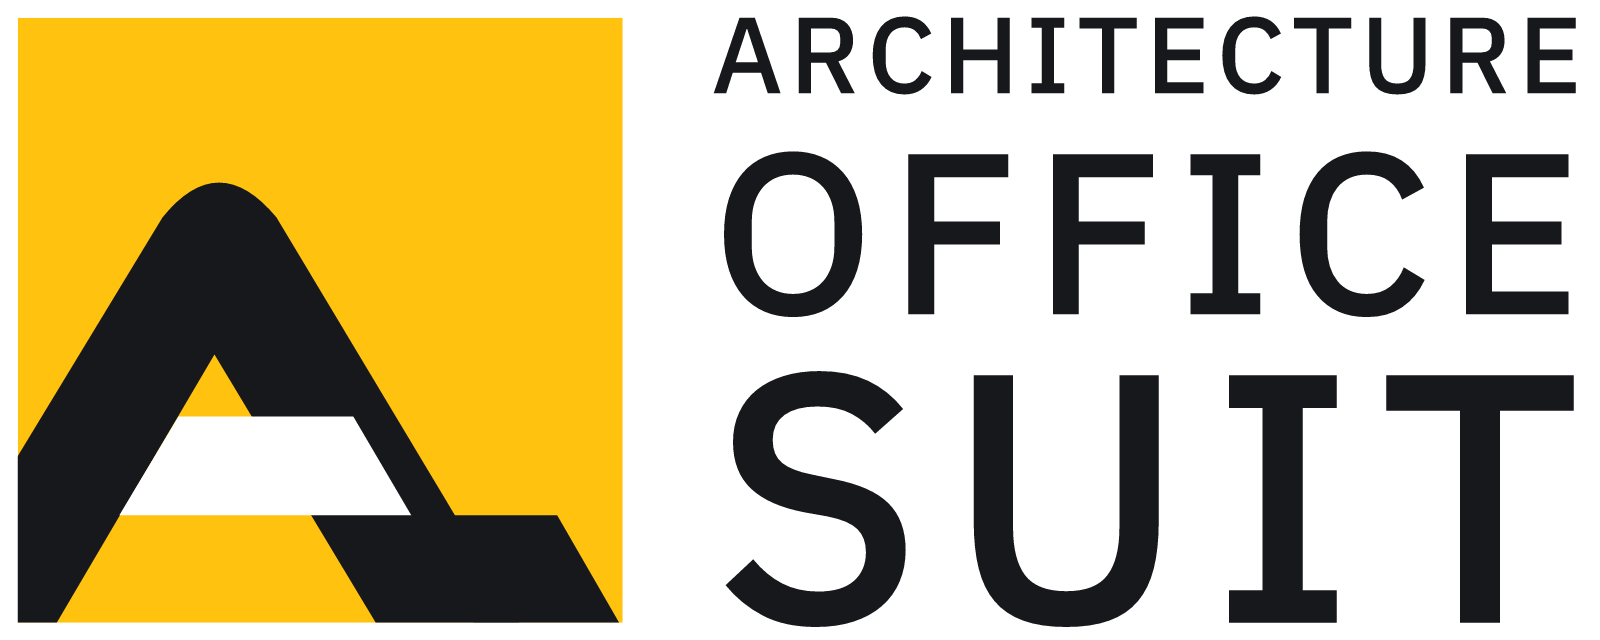
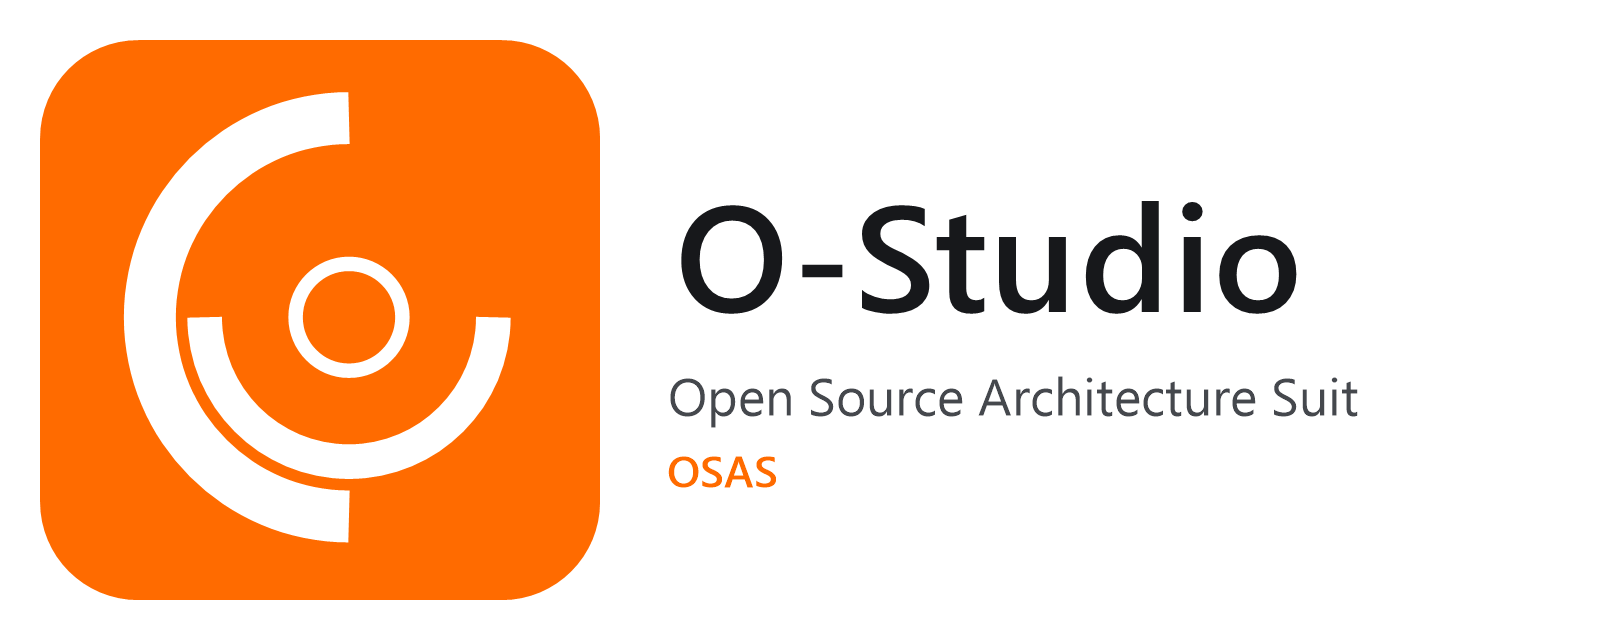
Rebrand to O-Studio: name, orange accent and the OSAS mark
The aos portal session name, the AOSENC1 file marker and the repository name are unchanged, because files and servers already use them.

diff --git a/native/Adms.Desktop/MainWindow.xaml b/native/Adms.Desktop/MainWindow.xaml
@@ -3,7 +3,7 @@
     x:Class="Adms.Desktop.MainWindow"
     xmlns="http://schemas.microsoft.com/winfx/2006/xaml/presentation"
     xmlns:x="http://schemas.microsoft.com/winfx/2006/xaml"
-    Title="Architecture Office Suit">
+    Title="O-Studio">
     <Grid x:Name="Root" Language="en-IN" Background="{ThemeResource ApplicationPageBackgroundThemeBrush}">
         <Grid.KeyboardAccelerators>
             <KeyboardAccelerator Key="Escape" Invoked="DismissNotice"/>
@@ -70,7 +70,7 @@
             <ScrollViewer x:Name="WelcomePanel" Padding="32">
                 <Border Style="{StaticResource SetupCardStyle}" MaxWidth="560">
                     <StackPanel Spacing="12">
-                        <Image x:Name="WelcomeLogo" MaxWidth="460" HorizontalAlignment="Left" Stretch="Uniform" AutomationProperties.Name="Architecture Office Suit"/>
+                        <Image x:Name="WelcomeLogo" MaxWidth="460" HorizontalAlignment="Left" Stretch="Uniform" AutomationProperties.Name="O-Studio"/>
                         <TextBlock Text="Create a company file or open an existing one." TextWrapping="WrapWholeWords" Style="{ThemeResource BodyStyle}"/>
                         <TextBlock Text="Developed by Human Centric Works" Style="{ThemeResource CaptionStyle}"/>
                         <StackPanel Orientation="Horizontal" Spacing="8">
@@ -112,7 +112,7 @@
             <ScrollViewer x:Name="LoginPanel" Visibility="Collapsed" Padding="32">
                 <Border Style="{StaticResource SetupCardStyle}">
                     <StackPanel Spacing="12">
-                        <Image x:Name="LoginLogo" Width="56" Height="56" HorizontalAlignment="Left" Stretch="Uniform" AutomationProperties.Name="Architecture Office Suit"/>
+                        <Image x:Name="LoginLogo" Width="56" Height="56" HorizontalAlignment="Left" Stretch="Uniform" AutomationProperties.Name="O-Studio"/>
                         <TextBlock x:Name="LoginHeading" Style="{ThemeResource PageTitleStyle}" TextWrapping="WrapWholeWords"/>
                         <TextBlock Text="Enter your username and password." Style="{ThemeResource BodyStyle}" TextWrapping="WrapWholeWords"/>
                         <TextBox x:Name="UsernameBox" Header="Username"/>
@@ -129,7 +129,7 @@
             <ScrollViewer x:Name="SetupPanel" Visibility="Collapsed" Padding="32">
                 <Border Style="{StaticResource SetupCardStyle}">
                     <StackPanel Spacing="12">
-                        <Image x:Name="SetupLogo" Width="56" Height="56" HorizontalAlignment="Left" Stretch="Uniform" AutomationProperties.Name="Architecture Office Suit"/>
+                        <Image x:Name="SetupLogo" Width="56" Height="56" HorizontalAlignment="Left" Stretch="Uniform" AutomationProperties.Name="O-Studio"/>
                         <TextBlock x:Name="SetupHeading" Style="{ThemeResource PageTitleStyle}" Text="Set up the admin password" TextWrapping="WrapWholeWords"/>
                         <TextBlock Text="This company is opened with the admin password. The recovery code is shown once." TextWrapping="WrapWholeWords" Style="{ThemeResource BodyStyle}"/>
                         <TextBox x:Name="SetupUser" Header="Username" Visibility="Collapsed"/>
@@ -146,7 +146,7 @@
             <ScrollViewer x:Name="RecoverPanel" Visibility="Collapsed" Padding="32">
                 <Border Style="{StaticResource SetupCardStyle}">
                     <StackPanel Spacing="12">
-                        <Image x:Name="RecoverLogo" Width="56" Height="56" HorizontalAlignment="Left" Stretch="Uniform" AutomationProperties.Name="Architecture Office Suit"/>
+                        <Image x:Name="RecoverLogo" Width="56" Height="56" HorizontalAlignment="Left" Stretch="Uniform" AutomationProperties.Name="O-Studio"/>
                         <TextBlock Style="{ThemeResource PageTitleStyle}" Text="Reset password" TextWrapping="WrapWholeWords"/>
                         <TextBlock Text="Enter the username and the recovery code. The old recovery code stops working. A new one is shown once." TextWrapping="WrapWholeWords" Style="{ThemeResource BodyStyle}"/>
                         <TextBox x:Name="RecoverUser" Header="Username"/>
@@ -164,7 +164,7 @@
             <ScrollViewer x:Name="UnlockPanel" Visibility="Collapsed" Padding="32">
                 <Border Style="{StaticResource SetupCardStyle}">
                     <StackPanel Spacing="12">
-                        <Image x:Name="UnlockLogo" Width="56" Height="56" HorizontalAlignment="Left" Stretch="Uniform" AutomationProperties.Name="Architecture Office Suit"/>
+                        <Image x:Name="UnlockLogo" Width="56" Height="56" HorizontalAlignment="Left" Stretch="Uniform" AutomationProperties.Name="O-Studio"/>
                         <TextBlock x:Name="UnlockHeading" Style="{ThemeResource PageTitleStyle}" Text="Session locked" TextWrapping="WrapWholeWords"/>
                         <PasswordBox x:Name="UnlockPassword" Header="Password" KeyDown="UnlockKeyDown"/>
                         <StackPanel Orientation="Horizontal" Spacing="8">

diff --git a/native/Adms.Desktop/App.xaml b/native/Adms.Desktop/App.xaml
@@ -14,7 +14,7 @@
             <ResourceDictionary.ThemeDictionaries>
                 <ResourceDictionary x:Key="Light">
                     <ResourceDictionary.MergedDictionaries>
-                        <ResourceDictionary Source="ms-appx:///Hcw.Ui/Themes/SuiteLight.xaml"/>
+                        <ResourceDictionary Source="ms-appx:///Hcw.Ui/Themes/SuiteLight.Orange.xaml"/>
                     </ResourceDictionary.MergedDictionaries>
                 </ResourceDictionary>
                 <ResourceDictionary x:Key="HighContrast">

diff --git a/native/Adms.Desktop/MainWindow.xaml.cs b/native/Adms.Desktop/MainWindow.xaml.cs
@@ -45,7 +45,7 @@ public sealed partial class MainWindow : Window
     private PrintDocument? _printDocument;
     private IPrintDocumentSource? _printSource;
     private IReadOnlyList<UIElement> _printPages = [];
-    private string _printJob = "Architecture Office Suit";
+    private string _printJob = "O-Studio";
 
     public MainWindow()
     {
@@ -223,7 +223,7 @@ public sealed partial class MainWindow : Window
         {
             args.Cancel = true;
             _closeAfterBusy = true;
-            ShowError("Architecture Office Suit will close after the current operation finishes. Nothing is written until you confirm a save.");
+            ShowError("O-Studio will close after the current operation finishes. Nothing is written until you confirm a save.");
             return;
         }
         if (!_allowClose && _signedIn && _workspace != null)
@@ -430,7 +430,7 @@ public sealed partial class MainWindow : Window
             _companyPath = "";
             _companyUuid = "";
             _role = "";
-            Title = "Architecture Office Suit";
+            Title = "O-Studio";
             ClearSecrets();
             ClearWorkspace();
             ShowWelcome();
@@ -769,7 +769,7 @@ public sealed partial class MainWindow : Window
         }
         var dialog = new ContentDialog
         {
-            Title = "About Architecture Office Suit",
+            Title = "About O-Studio",
             Content = new StackPanel
             {
                 Spacing = 8,
@@ -1024,7 +1024,7 @@ public sealed partial class MainWindow : Window
         _companyName = Text(company, "name");
         _companyPath = Text(company, "path");
         _companyUuid = Text(company, "uuid");
-        Title = string.IsNullOrWhiteSpace(_companyName) ? "Architecture Office Suit" : $"{_companyName} — Architecture Office Suit";
+        Title = string.IsNullOrWhiteSpace(_companyName) ? "O-Studio" : $"{_companyName} — O-Studio";
         var setup = status.TryGetProperty("setup_required", out var setupFlag) && setupFlag.ValueKind == JsonValueKind.True;
         if (setup)
         {
@@ -1218,7 +1218,7 @@ public sealed partial class MainWindow : Window
         var invalid = Path.GetInvalidFileNameChars();
         var cleaned = new string(company.Select(ch => invalid.Contains(ch) ? '-' : ch).ToArray()).Trim();
         if (cleaned.Length == 0)
-            cleaned = "Architecture Office Suit";
+            cleaned = "O-Studio";
         return cleaned + " preview";
     }
 

diff --git a/office-core/src/track.rs b/office-core/src/track.rs
@@ -1,7 +1,7 @@
 //! Schema tracks: how an app adds its own tables to a shared company file.
 //!
-//! The shared records and the original AOS tables are the `core` chain, versioned by `user_version`. Every other app (AQC, and
-//! later AOS additions) has its own track with its own list of migrations and its own version, kept in `schema_tracks`. Two apps
+//! The shared records and the original O-Studio tables are the `core` chain, versioned by `user_version`. Every other app (O-Metra, and
+//! later O-Studio additions) has its own track with its own list of migrations and its own version, kept in `schema_tracks`. Two apps
 //! can therefore ship migrations independently and open the same file in any order.
 //!
 //! A track may only create objects named `<track>_...` and may not alter anything that already exists. It can still refer to the

diff --git a/src-tauri/src/builtin_html.rs b/src-tauri/src/builtin_html.rs
@@ -253,7 +253,7 @@ pub fn seed(conn: &Connection) -> Result<usize, String> {
             continue;
         }
         let taken: i64 = conn.query_row("SELECT COUNT(*) FROM templates WHERE name = ?1", params![t.name], |r| r.get(0)).map_err(|e| e.to_string())?;
-        let name = if taken > 0 { format!("{} (Architecture Office Suit built-in)", t.name) } else { t.name.to_string() };
+        let name = if taken > 0 { format!("{} (O-Studio built-in)", t.name) } else { t.name.to_string() };
         let (html, css) = crate::docx::store(t.html, t.css)?;
         conn.execute(
             "INSERT INTO templates (kind, name, template_key, family, layout, description, built_in, format) VALUES (?1,?2,?3,?4,'letter',?5,1,'html')",

diff --git a/native/Adms.Desktop/Workflows.cs b/native/Adms.Desktop/Workflows.cs
@@ -44,12 +44,12 @@ internal static class Flow
     {
         var mark = new TextBlock
         {
-            Text = $"Architecture Office Suit-{sheet}  ·  {section}",
+            Text = $"O-Studio {sheet}  ·  {section}",
             Style = Look("CaptionStyle"),
         };
         var panel = new StackPanel { Margin = new Thickness(0, 0, 0, 2) };
         panel.Children.Add(mark);
-        AutomationProperties.SetName(panel, $"Architecture Office Suit {sheet}, {section}, {page}");
+        AutomationProperties.SetName(panel, $"O-Studio {sheet}, {section}, {page}");
         return panel;
     }
 

diff --git a/aorms-connect/src/lib.rs b/aorms-connect/src/lib.rs
@@ -1,6 +1,6 @@
 //! Sign in to AORMS with the suite's shared login and pull project details, for the office app.
 //!
-//! The contract is `docs/esti/AORMS-SUITE-SIGNIN.md` and `AQC-CLIENT-SPEC.md` in the AORMS repository (version `2026-10-aqc-1`).
+//! The contract is `docs/esti/AORMS-SUITE-SIGNIN.md` and `O-Metra-CLIENT-SPEC.md` in the AORMS repository (version `2026-10-aqc-1`).
 //! Everything here is optional: signed out, the office app works as it always has and makes no network calls.
 //!
 //! Rules this crate keeps:

diff --git a/office-ffi/src/lib.rs b/office-ffi/src/lib.rs
@@ -1,4 +1,4 @@
-//! A C interface to Office Core, for native apps that share the office company file (AQC, and others).
+//! A C interface to Office Core, for native apps that share the office company file (O-Metra, and others).
 //!
 //! The operations are the common ones from `office_core::host` (`company.open`, `company.create`, `auth.login` and so on) and the
 //! shared records: clients, projects with their briefs, staff, leave and the library. `track.apply` lets an app add its own tables

diff --git a/office-core/src/lib.rs b/office-core/src/lib.rs
@@ -1,4 +1,4 @@
-//! Office Core: the shared company file and records used by the architecture office apps (AOS, AQC).
+//! Office Core: the shared company file and records used by the architecture office apps (O-Studio, O-Metra).
 //!
 //! The crate owns the file format (the migrations), the audit log and the records every app needs: clients, projects and their
 //! briefs, staff, leave and the office library. An app adds its own commands, sessions and permissions on top. Apps never write

diff --git a/native/Adms.Desktop/AppTheme.cs b/native/Adms.Desktop/AppTheme.cs
@@ -6,7 +6,7 @@ using Windows.UI.ViewManagement;
 
 namespace Adms.Desktop;
 
-/// <summary>Architecture Office Suit is a light application. Windows high contrast still supplies its own colours.</summary>
+/// <summary>O-Studio is a light application. Windows high contrast still supplies its own colours.</summary>
 internal static class AppTheme
 {
     public static bool InHighContrast => new AccessibilitySettings().HighContrast;

diff --git a/office-core/src/workspace.rs b/office-core/src/workspace.rs
@@ -1,5 +1,5 @@
 //! The running workspace: the open company file, the signed-in session and the checks every command makes first.
-//! An app (AOS, AQC) holds one of these and adds its own commands on top.
+//! An app (O-Studio, O-Metra) holds one of these and adds its own commands on top.
 
 use crate::auth::{self, Permission, Role, Session, SessionInfo};
 use rusqlite::{params, Connection};

diff --git a/native/Adms.Desktop/Workspace.cs b/native/Adms.Desktop/Workspace.cs
@@ -85,7 +85,7 @@ internal sealed class WorkspaceView : UserControl
     public WorkspaceView(AppShell shell)
     {
         _shell = shell;
-        Hcw.Ui.SuiteNavigation.Apply(_nav);
+        Hcw.Ui.SuiteNavigation.Apply(_nav, Hcw.Ui.SuiteApp.Studio);
         _nav.PaneClosing += (_, args) => args.Cancel = true;
         _nav.ItemInvoked += (_, args) =>
         {
